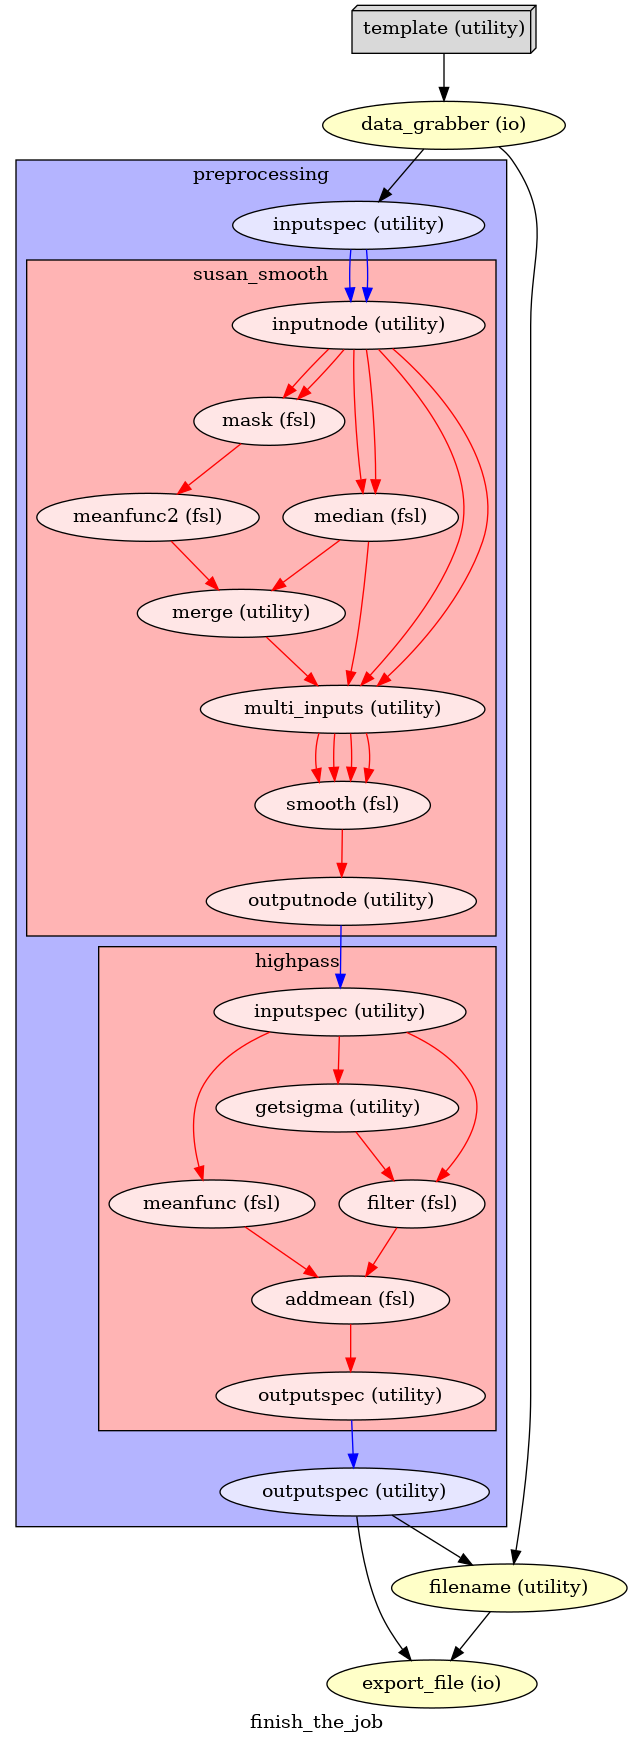
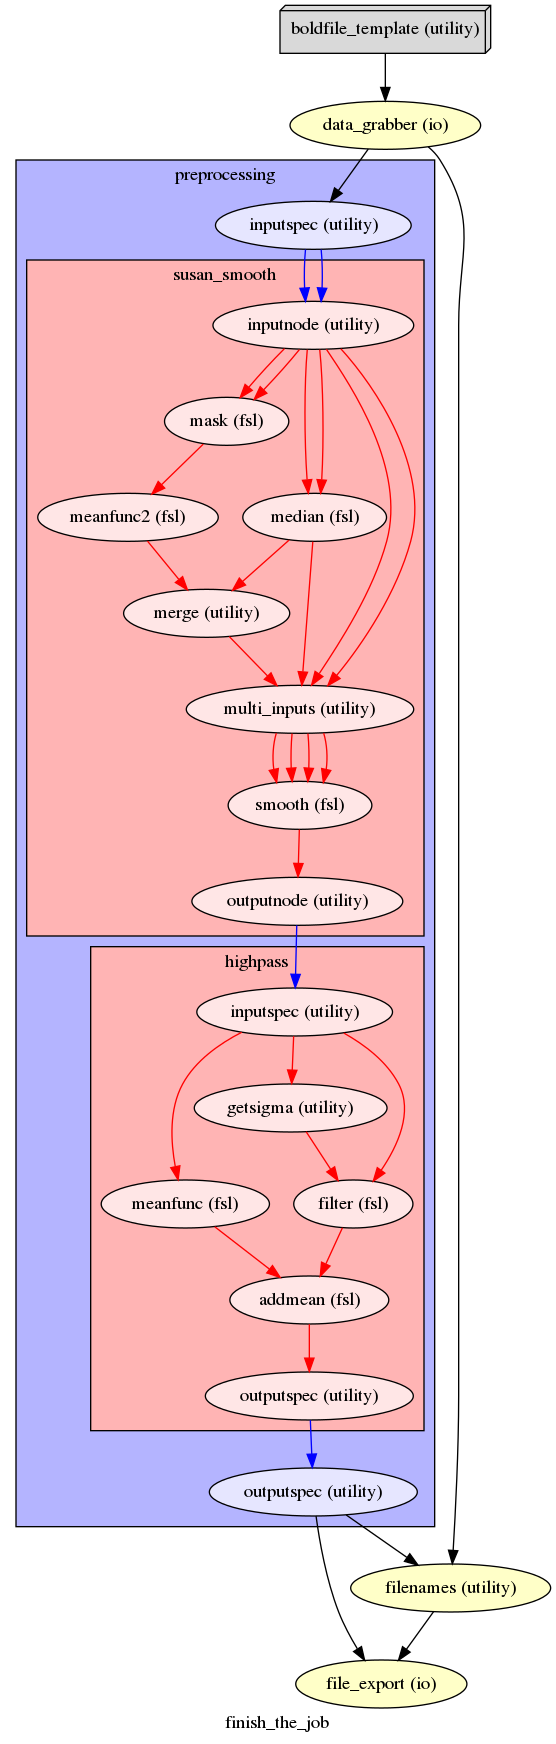
new graph

diff --git a/finish_the_job.py b/finish_the_job.py
@@ -67,7 +67,7 @@ def create_highpass_filter(cutoff=100, name='highpass'):
                        name='meanfunc')
 
     # Filter data
-    filter_ = MapNode(fsl.ImageMaths(suffix='_tempfilt', out_data_type='int')
+    filter_ = MapNode(fsl.ImageMaths(suffix='_tempfilt', out_data_type='int'),
                       iterfield=["in_file", "op_string"], name='filter')
 
     # Restore mean
@@ -109,7 +109,7 @@ def get_boldfile_template(fmriprep_dir, subject):
     if type(subject) == int:
         subject = "sub-{0:03d}".format(subject)
     return os.path.join(fmriprep_dir, subject, "ses-*", "func",
-                        "*_bold.nii.gz")
+                        "*_desc-preproc_bold.nii.gz")
 
 def get_masks(bold_files):
     """Get mask files for given bold files.
@@ -260,7 +260,7 @@ def finish_the_job(fmriprep_dir, subjects, pipeline, work_dir=None):
                                                            "subject"],
                                               output_names=["template"],
                                               function=get_boldfile_template),
-                    name='template')
+                    name='boldfile_template')
     boldfile_template.inputs.fmriprep_dir = fmriprep_dir
     boldfile_template.iterables = ("subject", subjects)
 
@@ -279,13 +279,13 @@ def finish_the_job(fmriprep_dir, subjects, pipeline, work_dir=None):
                                          output_names=["output_filename"],
                                          function=get_output_filename),
                         iterfield=["bold_filename"],
-                    name='filename')
+                    name='filenames')
     ftj.connect(preprocessing, "outputspec.suffix", filenames, "suffix")
     ftj.connect(dg, "outfiles", filenames, "bold_filename")
 
     # Save preprocessed files
     ef = MapNode(io.ExportFile(), iterfield=["in_file", "out_file"],
-                 name="export_file")
+                 name="file_export")
     ftj.connect(preprocessing, "outputspec.preprocessed_files", ef, "in_file")
     ftj.connect(filenames, "output_filename", ef, "out_file")
 
